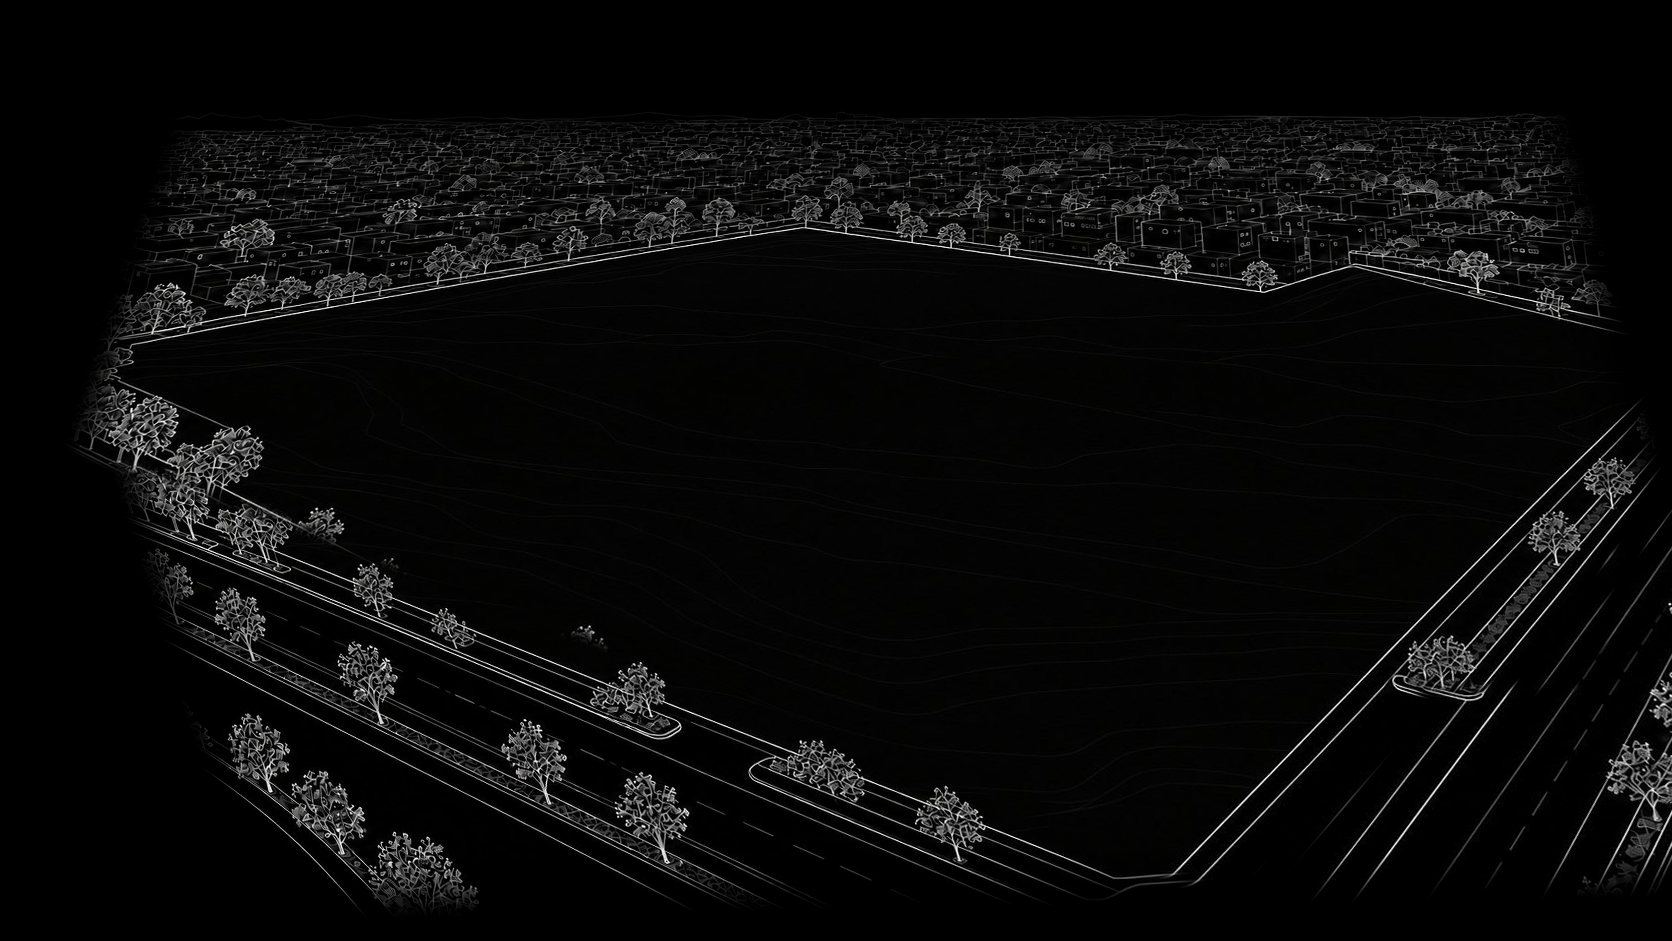
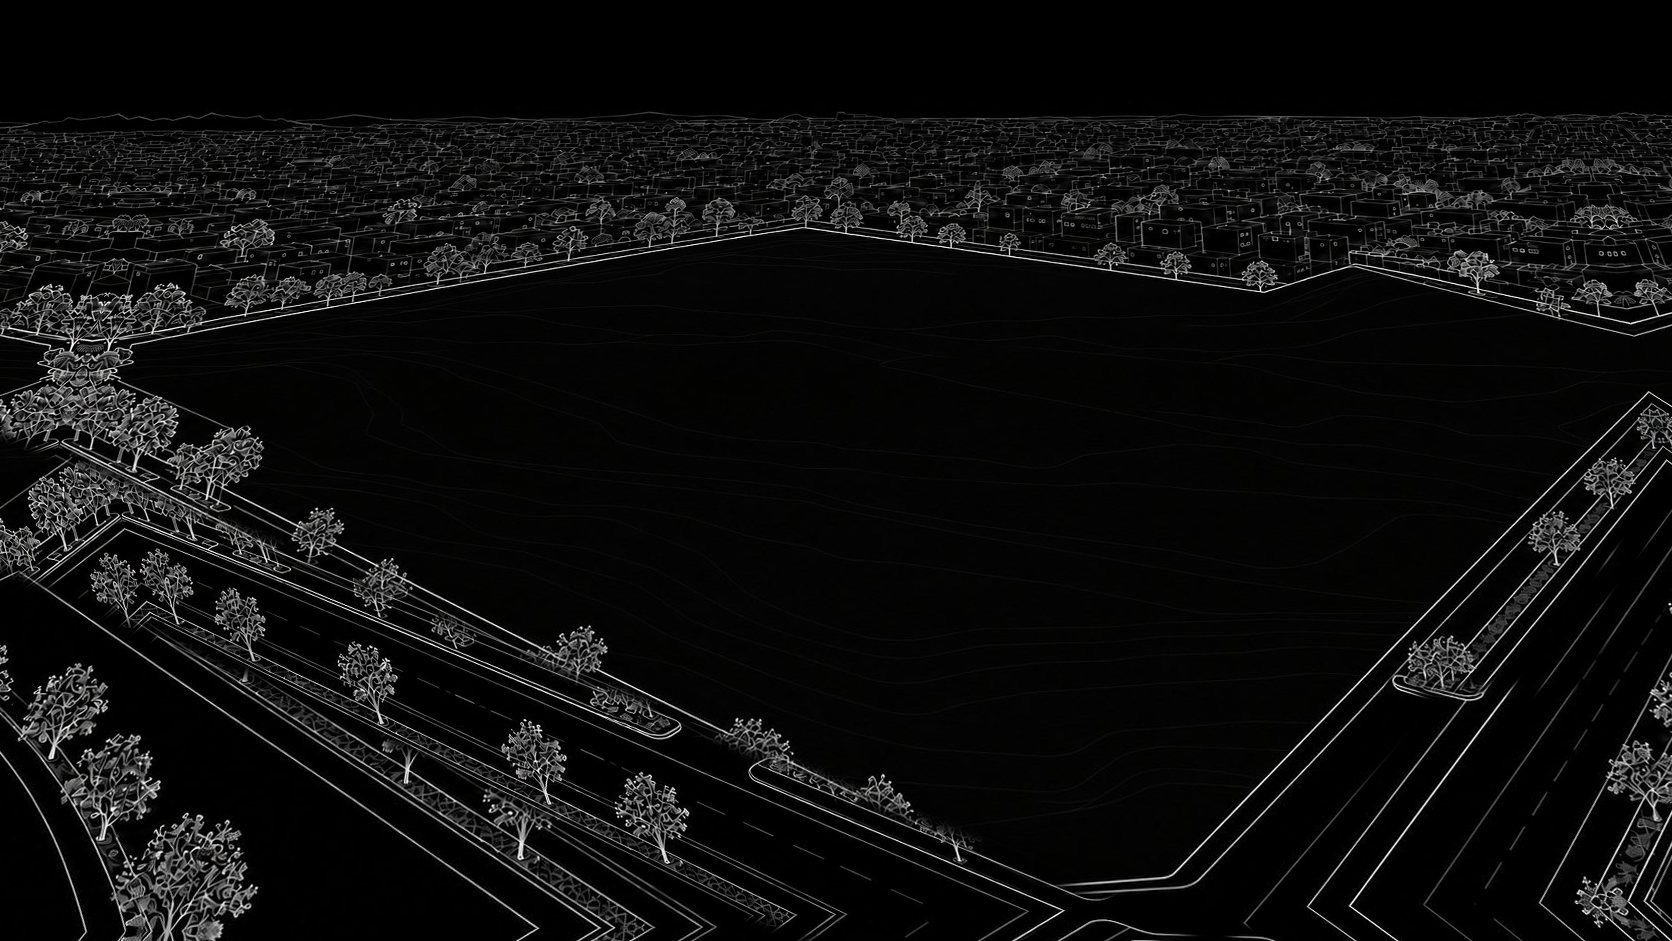
Hero build: fill the drawing to every edge of the frame
The aligned wireframe frames left dark wedges at the top, left and bottom-left,
which were most visible on phones. The grass corner now uses the compound
warp, and the remaining edge slivers mirror the drawing's own city and tree
texture. Only the sky above the drawn horizon stays black. The vignette is
also halved.

diff --git a/app/components/heroBuildEngine.ts b/app/components/heroBuildEngine.ts
@@ -303,7 +303,7 @@ const FRAGMENT = `precision highp float;
     if (photo) col += vec3(1., .78, .5) * band * .08;
     else col += B * band * .35;
     vec2 c = v - .5;
-    col *= 1. - .34 * pow(clamp(length(c * vec2(1.1, 1.25)), 0., 1.), 2.4);
+    col *= 1. - .16 * pow(clamp(length(c * vec2(1.1, 1.25)), 0., 1.), 2.4);
     col += (h(sp + fract(time) * 91.7) - .5) * .03;
     gl_FragColor = vec4(col, 1.);
   }`;
